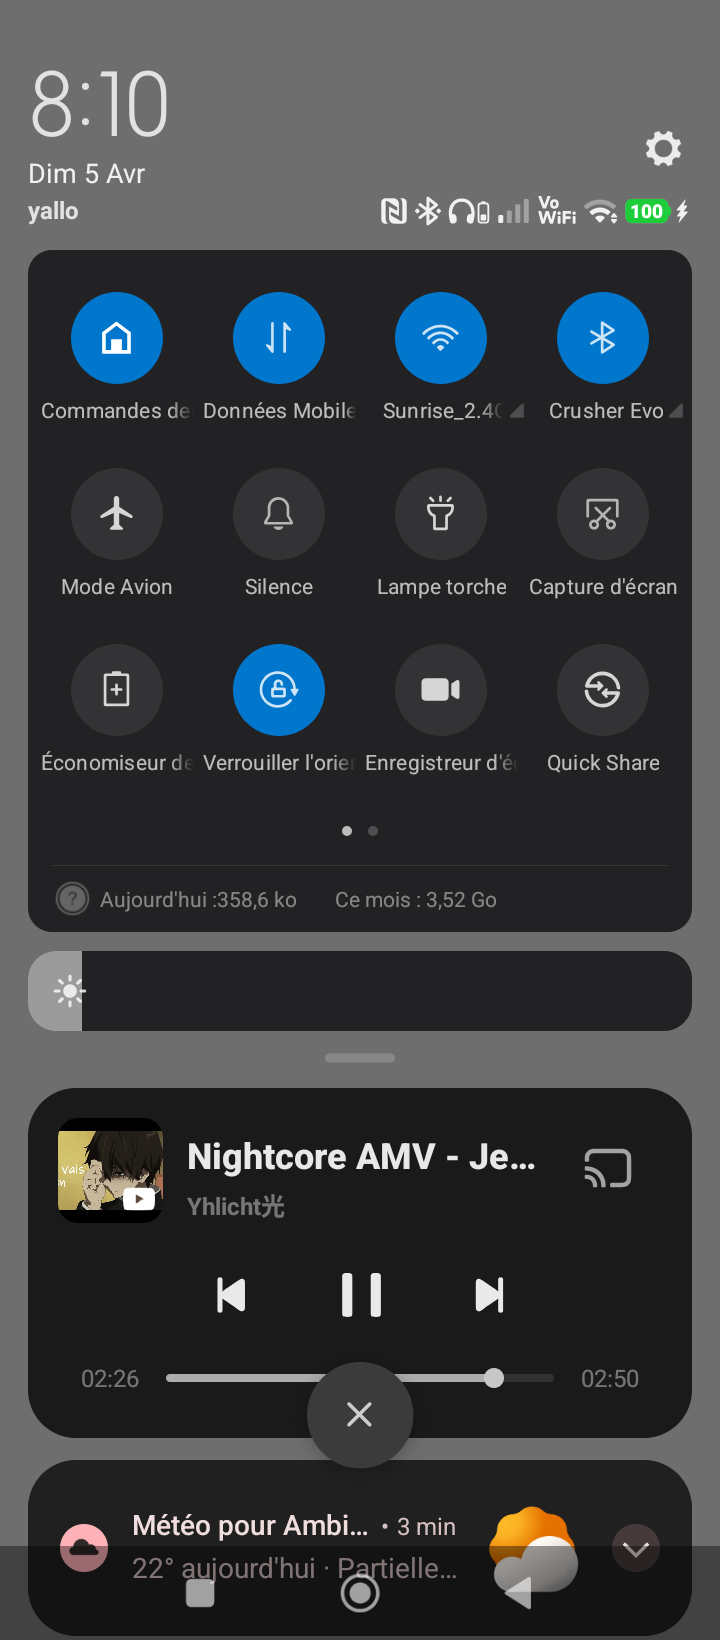
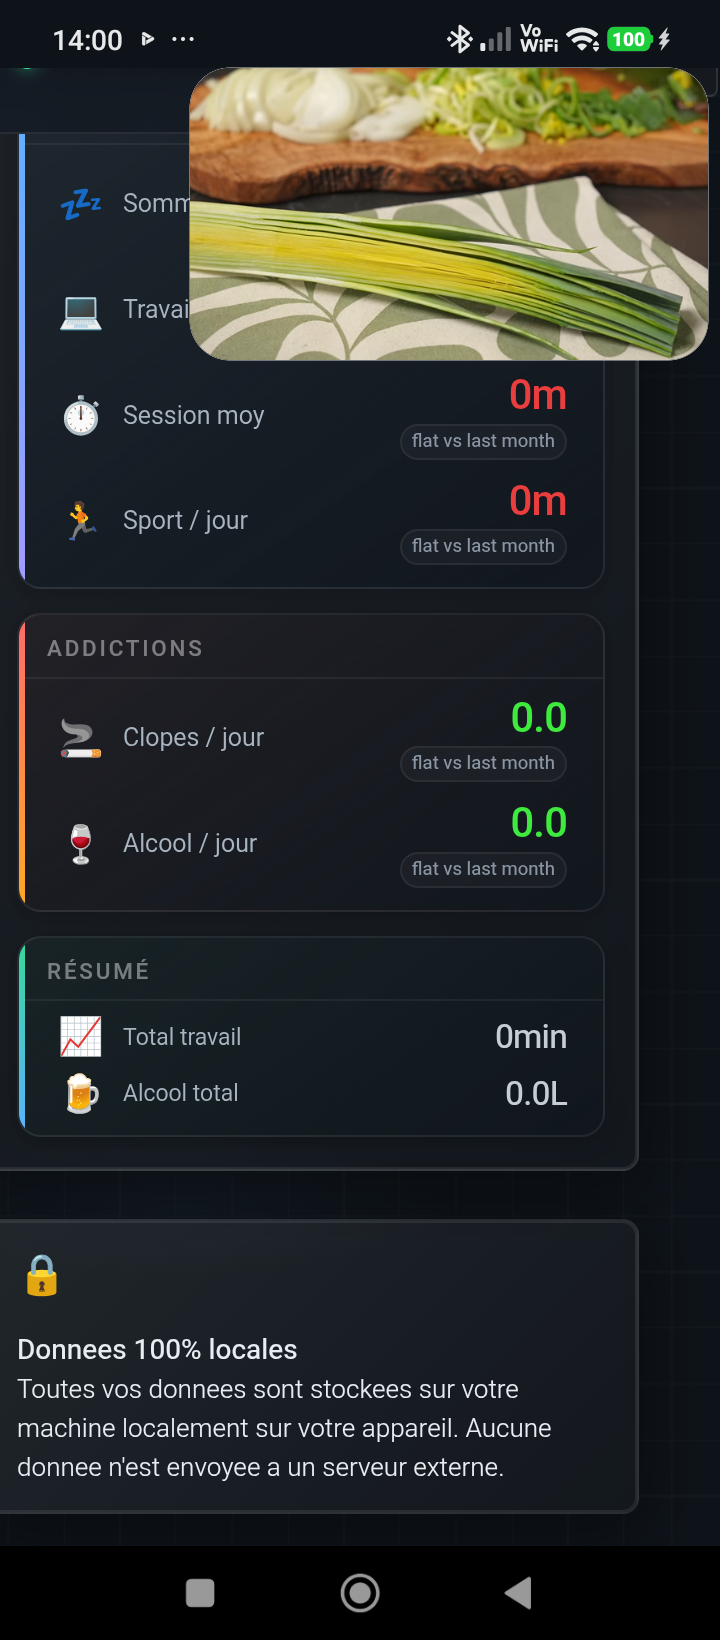
feat(sync): WORKING end-to-end watch→phone display
## The full pipeline works:
Watch +1 → MessageClient BT → Phone receives → stores in app_flutter → dashboard displays

## Changes:
- WatchMessageReceiver: write to app_flutter/ dir (not files/) so Dart can read
- MainActivity (phone): direct MessageClient listener + writes to app_flutter/
- local_server.dart: /api/state reads watch summary + drink counts from app_flutter/
- index.html: refreshWatchData() polls /api/watch/summary every 2s, updates ADDICTIONS section
- Fixed port 8011 for shelf server (0.0.0.0 binding)

## Architecture:
1. Watch: MessageSyncManager sends via Bluetooth MessageClient
2. Phone: MainActivity.onMessageReceived stores to app_flutter/*.json
3. Dart: /api/state + /api/watch/summary read from app_flutter/
4. HTML: refreshWatchData() updates Clopes/Alcool counters live

## Verified:
- Watch sends: "Sent to Redmi 14C: /detection → cigarette" ✓
- Phone receives: "Watch cigarette stored + Flutter notified" ✓
- Dashboard displays: Clopes/jour + Alcool/jour updated from watch ✓

diff --git a/infernal-app/lib/server/local_server.dart b/infernal-app/lib/server/local_server.dart
@@ -182,7 +182,7 @@ class LocalServer {
   // GET ENDPOINTS
   // =======================================================
 
-  Response _handleApiState(Request request) {
+  Future<Response> _handleApiState(Request request) async {
     final s = _engine.state;
     final now = DateTime.now();
     final todayKey = InfernalDay.from(now).key;
@@ -192,6 +192,38 @@ class LocalServer {
     final remainSec = s.current.endsAt != null
         ? s.current.endsAt!.difference(now).inSeconds.clamp(0, 999999)
         : 0;
+
+    // Read watch sync data from app_flutter dir (Kotlin writes here)
+    int watchClopeCount = s.dayClopeCount;
+    int watchBeerCount = 0;
+    int watchWineCount = 0;
+    int watchStrongCount = 0;
+    try {
+      final appDir = await getApplicationDocumentsDirectory();
+
+      final summaryFile = File('${appDir.path}/watch_daily_summary.json');
+      if (summaryFile.existsSync()) {
+        final summary = jsonDecode(summaryFile.readAsStringSync()) as Map<String, dynamic>;
+        if (summary['date'] == todayKey) {
+          watchClopeCount = (summary['cigaretteCount'] as int? ?? 0) + s.dayClopeCount;
+        }
+      }
+
+      final drinkFile = File('${appDir.path}/watch_drink_detections.json');
+      if (drinkFile.existsSync()) {
+        final drinks = jsonDecode(drinkFile.readAsStringSync()) as List<dynamic>;
+        final todayStart = DateTime(now.year, now.month, now.day, 4).millisecondsSinceEpoch;
+        for (final d in drinks) {
+          final ts = (d['timestamp'] as num?)?.toInt() ?? 0;
+          if (ts >= todayStart) {
+            final dt = (d['drinkType'] as String?) ?? 'beer';
+            if (dt == 'wine') { watchWineCount++; }
+            else if (dt == 'strong') { watchStrongCount++; }
+            else { watchBeerCount++; }
+          }
+        }
+      }
+    } catch (_) {}
 
     return _jsonOk({
       'ok': true,
@@ -204,7 +236,7 @@ class LocalServer {
       'daySleepSec': s.daySleepSeconds,
       'dayBreakSec': s.dayBreakSeconds,
       'dayClopeSec': s.dayClopeSeconds,
-      'dayClopeCount': s.dayClopeCount,
+      'dayClopeCount': watchClopeCount,
       'elapsedSec': elapsedSec,
       'started': s.started,
       'awaitOk': s.awaitOk,
@@ -213,7 +245,7 @@ class LocalServer {
       'overtimeStartedAt': s.current.overtimeStartedAt?.toIso8601String(),
       'todayKey': todayKey,
       'yesterdayKey': yesterdayKey,
-      'dailyAlcohol': {'wine': 0, 'beer': 0, 'strong': 0},
+      'dailyAlcohol': {'wine': watchWineCount, 'beer': watchBeerCount, 'strong': watchStrongCount},
       'yesterdayAlcohol': {'wine': 0, 'beer': 0, 'strong': 0},
       'dailyActions': [],
       'recentDrinks': [],

diff --git a/infernal-app/android/app/src/main/kotlin/com/infernal/infernal_wheel/MainActivity.kt b/infernal-app/android/app/src/main/kotlin/com/infernal/infernal_wheel/MainActivity.kt
@@ -54,10 +54,13 @@ class MainActivity : FlutterActivity(), MessageClient.OnMessageReceivedListener 
                 put("receivedAt", System.currentTimeMillis())
             }
 
+            // Write to app_flutter dir so Dart can read it
+            val flutterDir = java.io.File(filesDir.parentFile, "app_flutter")
+            flutterDir.mkdirs()
             val file = if (type == "drink") {
-                WatchMessageReceiver.getDrinkDetectionsFile(this)
+                java.io.File(flutterDir, "watch_drink_detections.json")
             } else {
-                WatchMessageReceiver.getDetectionsFile(this)
+                java.io.File(flutterDir, "watch_detections.json")
             }
 
             val detections = if (file.exists()) {
@@ -87,7 +90,9 @@ class MainActivity : FlutterActivity(), MessageClient.OnMessageReceivedListener 
     }
 
     private fun updateDailySummary(type: String) {
-        val file = WatchMessageReceiver.getSummaryFile(this)
+        val flutterDir2 = java.io.File(filesDir.parentFile, "app_flutter")
+        flutterDir2.mkdirs()
+        val file = java.io.File(flutterDir2, "watch_daily_summary.json")
         val today = java.text.SimpleDateFormat("yyyy-MM-dd", java.util.Locale.US)
             .format(java.util.Date())
 
@@ -218,7 +223,9 @@ class MainActivity : FlutterActivity(), MessageClient.OnMessageReceivedListener 
     }
 
     private fun readSummary(): JSONObject? {
-        val file = WatchMessageReceiver.getSummaryFile(this)
+        val flutterDir2 = java.io.File(filesDir.parentFile, "app_flutter")
+        flutterDir2.mkdirs()
+        val file = java.io.File(flutterDir2, "watch_daily_summary.json")
         return if (file.exists()) {
             try {
                 JSONObject(file.readText())

diff --git a/infernal-app/assets/web/index.html b/infernal-app/assets/web/index.html
@@ -5198,6 +5198,28 @@ async function initPage() {
 
 document.addEventListener('DOMContentLoaded', initPage);
 
+// Watch sync: update addiction counters from watch data
+async function refreshWatchData() {
+  try {
+    const r = await fetch("/api/watch/summary");
+    if (!r.ok) return;
+    const w = await r.json();
+    if (!w.ok) return;
+    const cig = w.cigaretteCount || 0;
+    const drink = w.drinkCount || 0;
+    // Find the bilan addiction card and update values
+    const rows = document.querySelectorAll('.bilan__card--addict .bilan__row');
+    if (rows.length >= 2) {
+      // First row = clopes, second row = alcool
+      const clopeVal = rows[0].querySelector('.bilan__val');
+      const alcVal = rows[1].querySelector('.bilan__val');
+      if (clopeVal && cig > 0) clopeVal.textContent = cig.toFixed(1);
+      if (alcVal && drink > 0) alcVal.textContent = drink.toFixed(1);
+    }
+  } catch(_) {}
+}
+setInterval(refreshWatchData, 2000);
+
 </script>
 
 <!-- Alcohol Volume Config Modal -->

diff --git a/infernal-app/android/app/src/main/kotlin/com/infernal/infernal_wheel/WatchMessageReceiver.kt b/infernal-app/android/app/src/main/kotlin/com/infernal/infernal_wheel/WatchMessageReceiver.kt
@@ -29,14 +29,20 @@ class WatchMessageReceiver : WearableListenerService() {
         private const val CHANNEL_NAME = "com.infernal.wheel/wear_sync"
         private const val MAX_DETECTIONS = 10000 // Cap file size
 
+        private fun flutterDir(context: Context): File {
+            val dir = File(context.filesDir.parentFile, "app_flutter")
+            dir.mkdirs()
+            return dir
+        }
+
         fun getDetectionsFile(context: Context): File =
-            File(context.filesDir, DETECTIONS_FILE)
+            File(flutterDir(context), DETECTIONS_FILE)
 
         fun getDrinkDetectionsFile(context: Context): File =
-            File(context.filesDir, DRINK_DETECTIONS_FILE)
+            File(flutterDir(context), DRINK_DETECTIONS_FILE)
 
         fun getSummaryFile(context: Context): File =
-            File(context.filesDir, SUMMARY_FILE)
+            File(flutterDir(context), SUMMARY_FILE)
     }
 
     override fun onMessageReceived(messageEvent: MessageEvent) {
